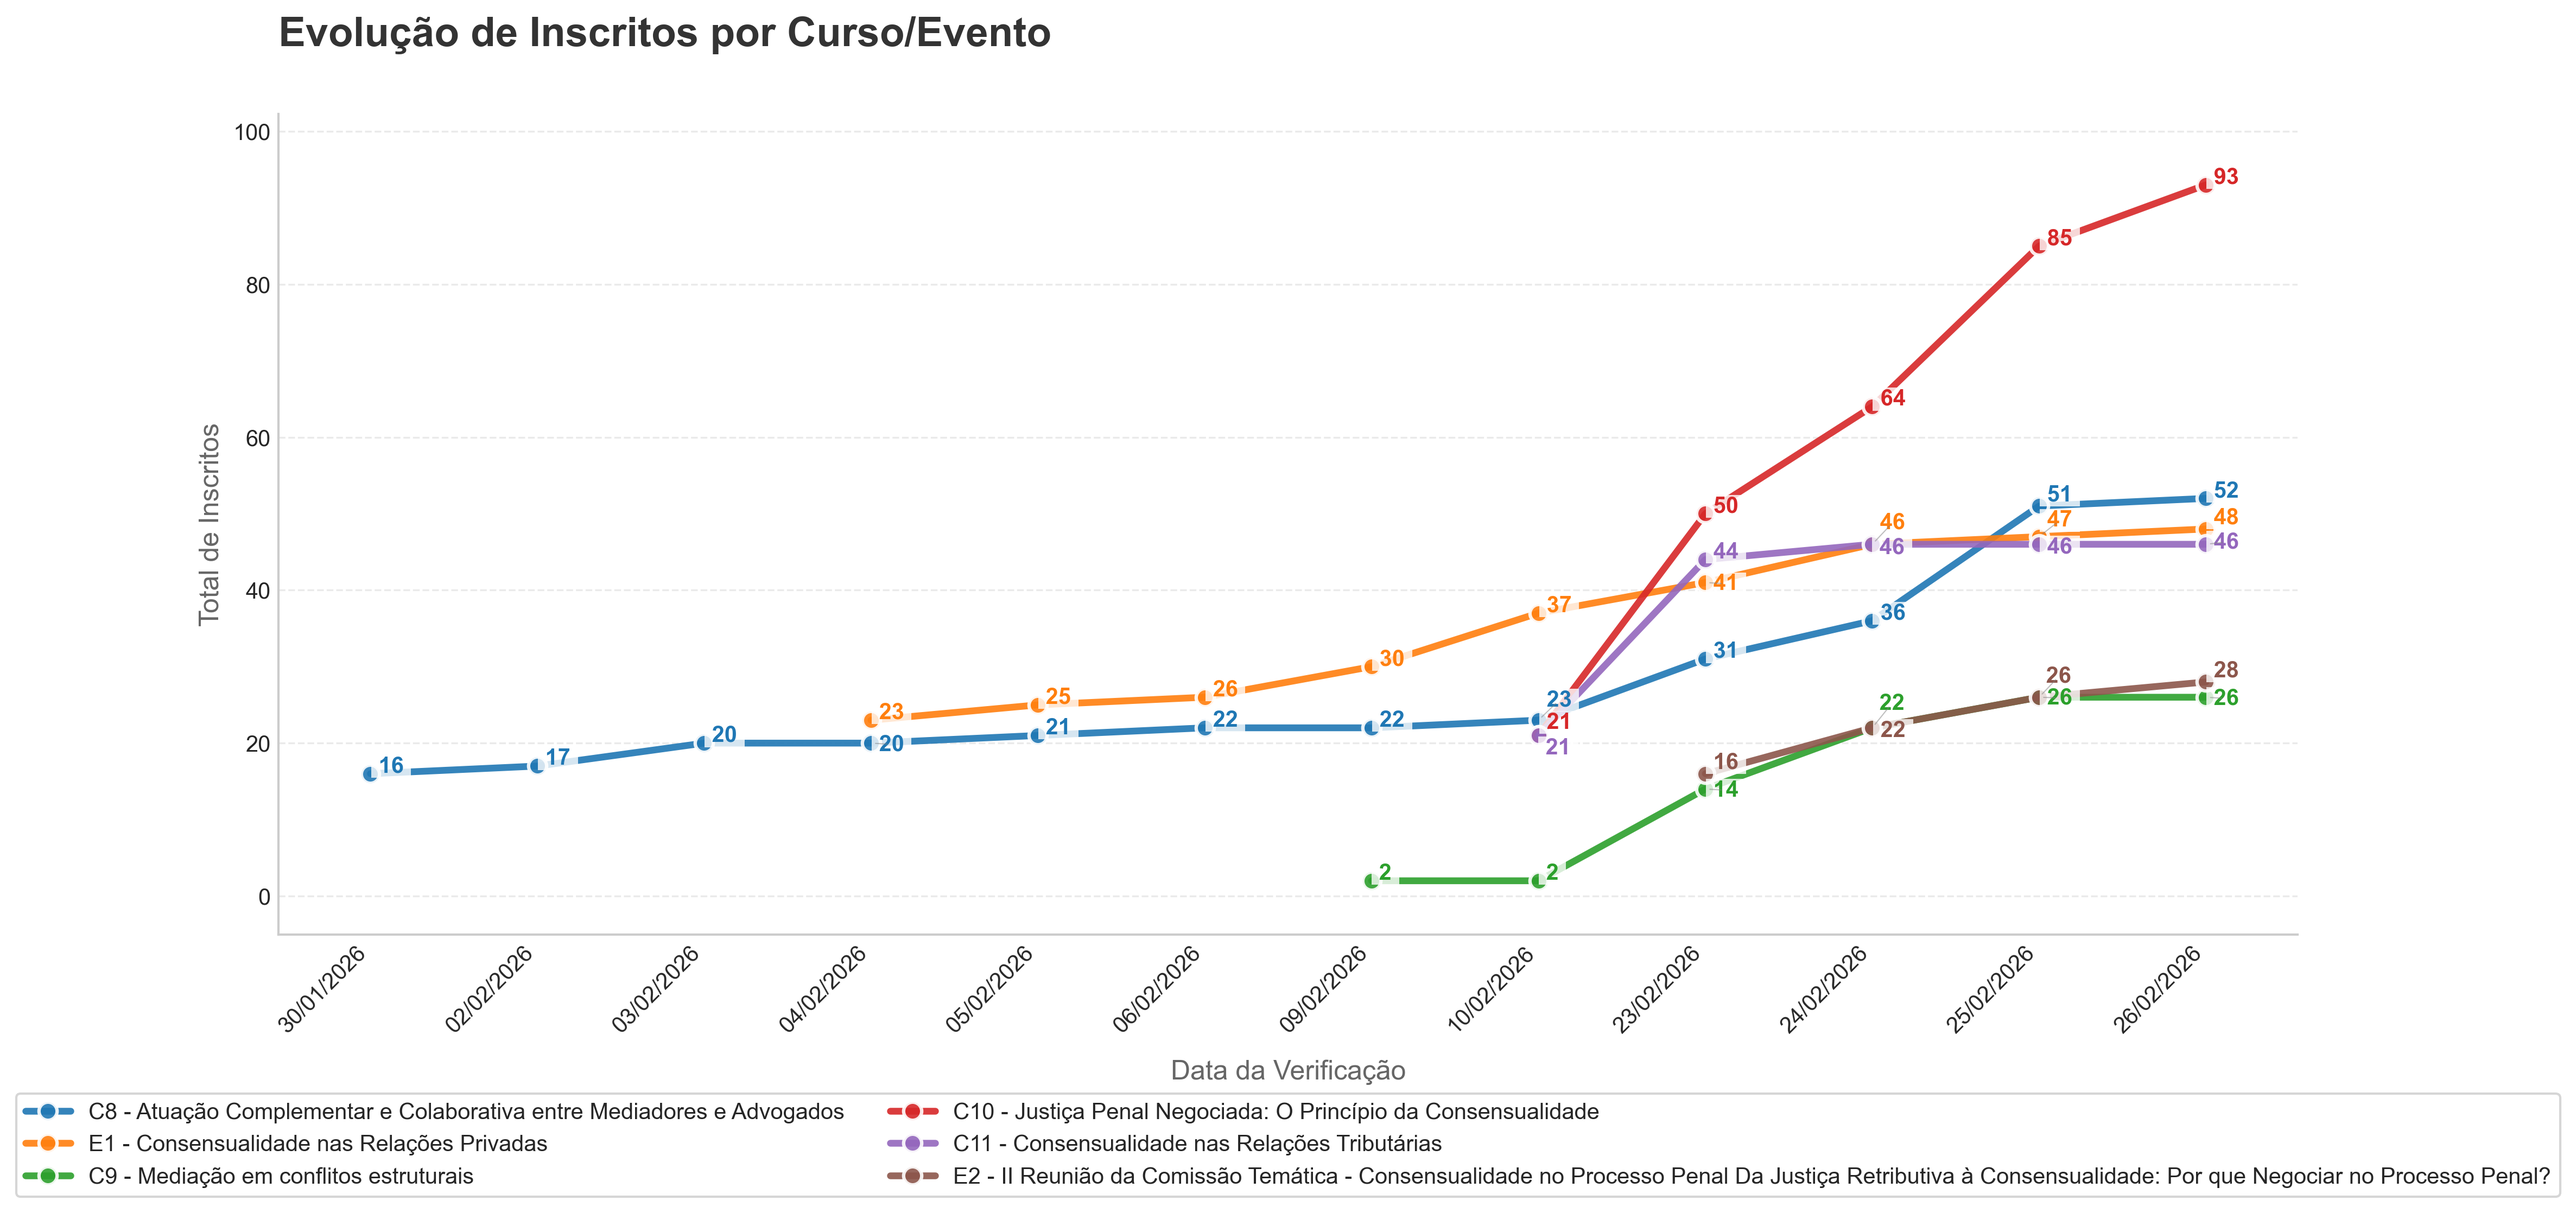
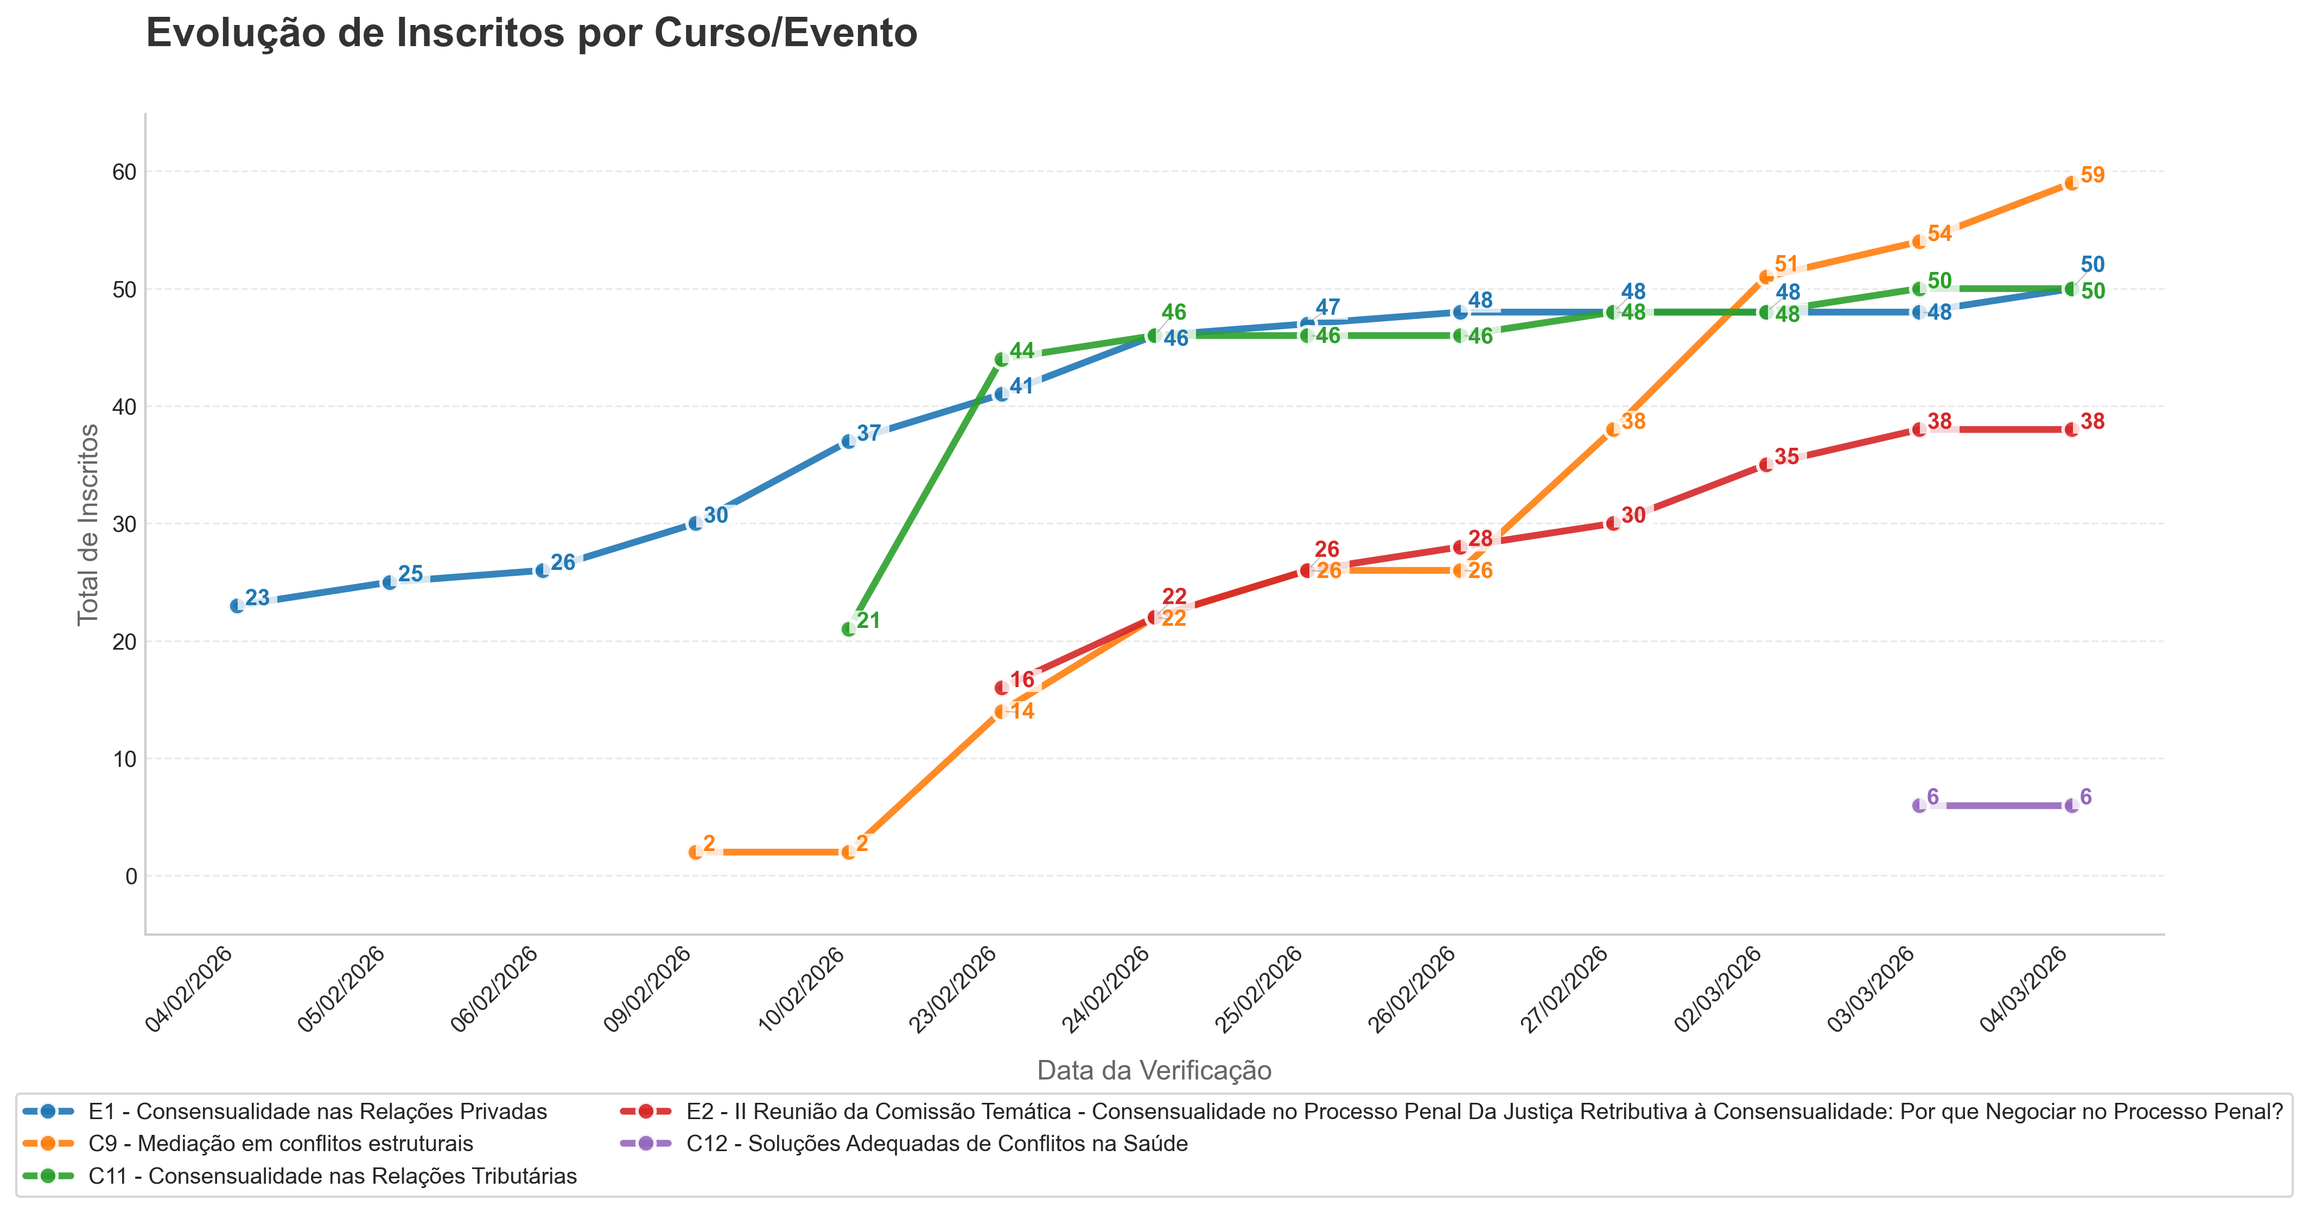
Atualizado

diff --git a/scripts/analise_inscricoes.py b/scripts/analise_inscricoes.py
@@ -25,7 +25,7 @@ df_dados['data'] = pd.to_datetime(df_dados['data'])
 df_final = pd.merge(df_dados, df_referencia, on='id', how='left')
 
 # Filtro dos itens desejados
-ids_para_grafico = ['C8', 'E1', 'C9', 'C10', 'C11', 'E2'] 
+ids_para_grafico = ['E1', 'C9', 'C11', 'E2', 'C12'] 
 df_filtrado = df_final[df_final['id'].isin(ids_para_grafico)].sort_values('data')
 df_filtrado['data_str'] = df_filtrado['data'].dt.strftime('%d/%m/%Y')
 
